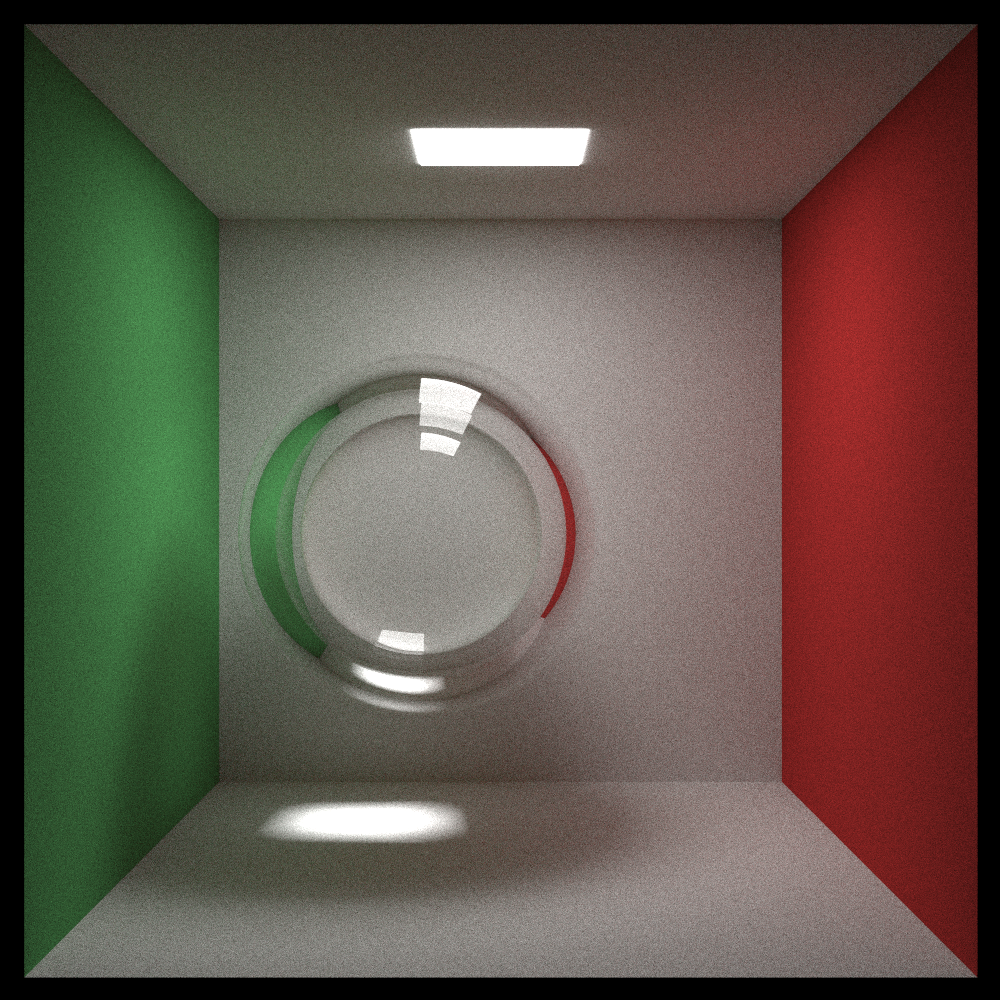
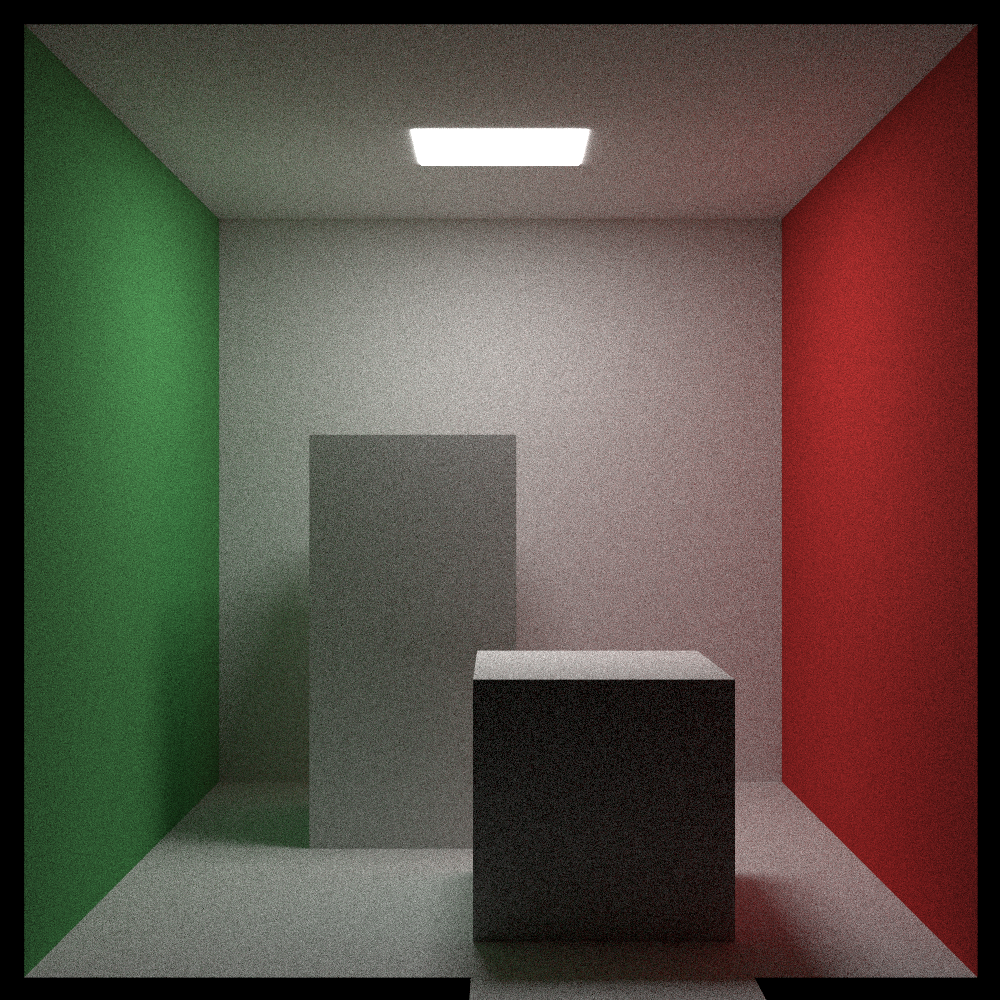
adding cuboids

diff --git a/src/main.rs b/src/main.rs
@@ -7,19 +7,19 @@ pub mod ray;
 pub mod v3;
 
 use rand::random_range;
-use std::io::stdout;
+use std::{env, io::stdout};
 
 use bbox::BvhNode;
 use color::Color;
-use hit::{HitRecord, Hittable, Quad, Sphere};
+use hit::{cuboid, HitRecord, Hittable, Quad, Sphere};
 use material::Material;
 use ray::{Camera, Ray};
 use v3::{P3, V3};
 
 pub const BG_COLOR: Color = Color::new(0.7, 0.8, 1.0); // default scene background color
 pub const ASPECT_RATIO: f64 = 16.0 / 10.0; // image aspect ratio
-pub const IMAGE_WIDTH: u16 = 1600; // image width in pixels
-pub const SAMPLES_PER_PIXEL: u16 = 2500; // number of random samples per pixel
+pub const IMAGE_WIDTH: u16 = 1000; // image width in pixels
+pub const SAMPLES_PER_PIXEL: u16 = 1500; // number of random samples per pixel
 pub const MAX_BOUNCES: u8 = 80; // maximum number of ray bounces allowed
 
 macro_rules! p {
@@ -35,21 +35,26 @@ macro_rules! v {
 }
 
 fn main() {
-    // let (hittables, camera) = random_ballscape();
-    // let (hittables, camera) = checkered_spheres();
-    // let (hittables, camera) = composed();
-    // let (hittables, camera) = image();
-    // let (hittables, camera) = perlin_spheres();
-    // let (hittables, camera) = quads();
-    // let (hittables, camera) = simple_light();
-    let (hittables, camera) = cornell_box_glass_ball();
+    let sim = env::args().nth(1).unwrap_or_default();
+    eprintln!("sim = {sim}");
+
+    let (hittables, camera) = match sim.as_str() {
+        "random-ballscape" => random_ballscape(),
+        "checkered-spheres" => checkered_spheres(),
+        "composed" => composed(),
+        "image" => image(),
+        "perlin-spheres" => perlin_spheres(),
+        "quads" => quads(),
+        "simple-light" => simple_light(),
+        "cornell" => empty_cornell_box(false),
+        "mirror-cornell" => empty_cornell_box(true),
+        "cornell-glass-ball" => cornell_box_glass_ball(),
+        "mirror-cornell-glass-ball" => mirror_cornell_box_glass_ball(),
+        "cornell-cuboids" => cornell_box_cuboids(),
+        _ => cornell_box_cuboids(),
+    };
 
     eprintln!("Computing bvh tree...");
-    // There is definitely a break even point in terms of the number of number of hittables
-    // in the scene and the utility of the bvh_tree in terms of the overhead from checking
-    // hits against the bounding boxes.
-    // It's probably worth defining a heuristic to check against the resulting tree to see
-    // if it is worthwhile using it or not.
     let bvh_tree = BvhNode::new_from_hittables(hittables);
 
     eprintln!("Rendering...");
@@ -394,7 +399,7 @@ fn empty_cornell_box(white_mirror: bool) -> (Vec<Hittable>, Camera) {
 
     let camera = Camera::new(
         1.0,
-        1000,
+        IMAGE_WIDTH,
         SAMPLES_PER_PIXEL,
         MAX_BOUNCES,
         Color::BLACK,
@@ -433,6 +438,18 @@ pub fn mirror_cornell_box_glass_ball() -> (Vec<Hittable>, Camera) {
     hittables.push(Sphere::new(p!(343, 250, 342), 150.0, glass.clone()).into());
     hittables.push(Sphere::new(p!(343, 250, 342), 120.0, air).into());
     hittables.push(Sphere::new(p!(343, 250, 342), 100.0, glass).into());
+
+    (hittables, camera)
+}
+
+pub fn cornell_box_cuboids() -> (Vec<Hittable>, Camera) {
+    let (mut hittables, camera) = empty_cornell_box(false);
+
+    // Contents
+    let white = Material::solid_color(Color::grey(0.73));
+
+    hittables.push(cuboid(p!(130, 0, 65), p!(295, 165, 230), white.clone()));
+    hittables.push(cuboid(p!(265, 0, 295), p!(430, 330, 460), white.clone()));
 
     (hittables, camera)
 }

diff --git a/src/hit.rs b/src/hit.rs
@@ -143,6 +143,12 @@ impl From<Quad> for Hittable {
     }
 }
 
+impl From<HittableList> for Hittable {
+    fn from(l: HittableList) -> Self {
+        Self::List(l)
+    }
+}
+
 #[derive(Default, Debug, Clone)]
 pub struct HittableList {
     pub objects: Vec<Hittable>,
@@ -379,6 +385,26 @@ impl QuadShape {
             Self::Triangle => alpha > 0. && beta > 0. && alpha + beta < 1.,
         }
     }
+}
+
+/// Construct a closed cuboid containing the two provided opposite vertices: a, b.
+pub fn cuboid(a: P3, b: P3, mat: Material) -> Hittable {
+    let mut sides = HittableList::default();
+    let min = P3::new(a.x.min(b.x), a.y.min(b.y), a.z.min(b.z));
+    let max = P3::new(a.x.max(b.x), a.y.max(b.y), a.z.max(b.z));
+
+    let dx = V3::new(max.x - min.x, 0.0, 0.0);
+    let dy = V3::new(0.0, max.y - min.y, 0.0);
+    let dz = V3::new(0.0, 0.0, max.z - min.z);
+
+    sides.add(Quad::new(P3::new(min.x, min.y, max.z), dx, dy, mat.clone()).into());
+    sides.add(Quad::new(P3::new(max.x, min.y, max.z), -dz, dy, mat.clone()).into());
+    sides.add(Quad::new(P3::new(max.x, min.y, min.z), -dx, dy, mat.clone()).into());
+    sides.add(Quad::new(P3::new(min.x, min.y, min.z), dz, dy, mat.clone()).into());
+    sides.add(Quad::new(P3::new(min.x, max.y, max.z), dx, -dz, mat.clone()).into());
+    sides.add(Quad::new(P3::new(min.x, min.y, min.z), dx, -dz, mat).into());
+
+    sides.into()
 }
 
 #[cfg(test)]

diff --git a/src/bbox.rs b/src/bbox.rs
@@ -137,6 +137,11 @@ impl BvhInner {
     }
 }
 
+// There is definitely a break even point in terms of the number of number of hittables
+// in the scene and the utility of the bvh_tree in terms of the overhead from checking
+// hits against the bounding boxes.
+// It's probably worth defining a heuristic to check against the resulting tree to see
+// if it is worthwhile using it or not.
 #[derive(Debug, Clone)]
 pub struct BvhNode {
     pub left: BvhInner,
